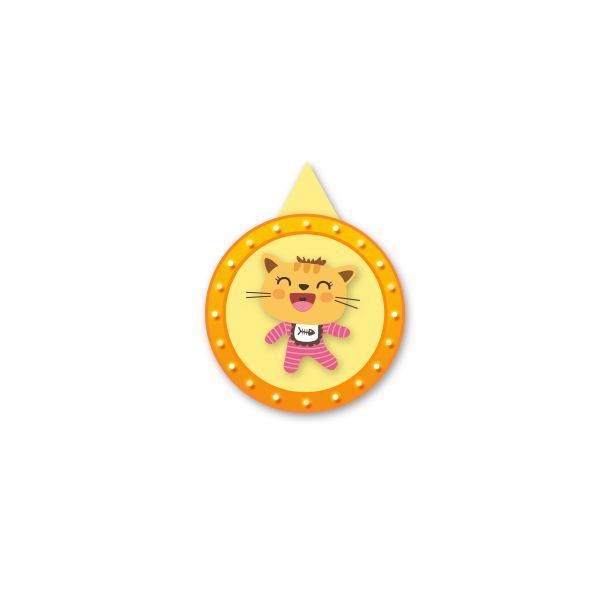
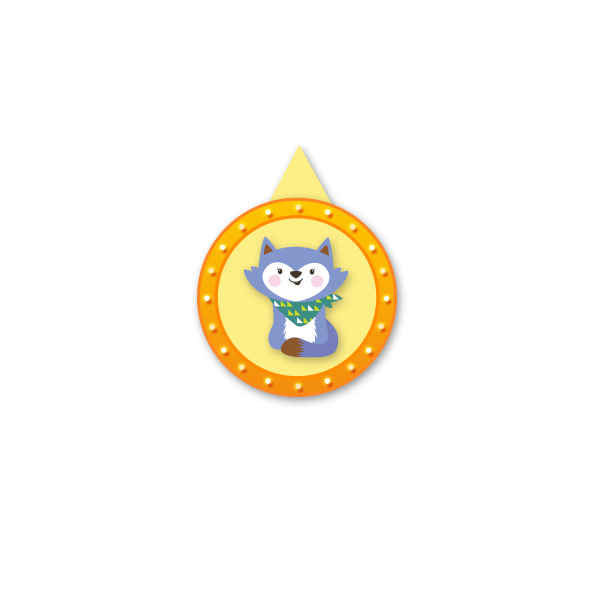
may be ok

Changed region(s): [[0.3333, 0.2424, 0.697, 0.697]]

diff --git a/static/css/animate.css b/static/css/animate.css
@@ -13,67 +13,72 @@
 }
 
 .rdash {
-  -webkit-transform: rotateZ(-3600deg);
-  -moz-transform: rotateZ(-3600deg);
-  -ms-transform: rotateZ(-3600deg);
-  -o-transform: rotateZ(-3600deg);
-  transform: rotateZ(-3600deg);
+  -webkit-transition: all 5s linear;
+  -moz-transition: all 5s linear;
+  -ms-transition: all 5s linear;
+  -o-transition: all 5s linear;
+  transition: all 5s linear;
+  -webkit-transform: rotateZ(0deg);
+  -moz-transform: rotateZ(0deg);
+  -ms-transform: rotateZ(0deg);
+  -o-transform: rotateZ(0deg);
+  transform: rotateZ(0deg);
 }
 
 .spin {
   -webkit-animation-name: spin;
-  -webkit-animation-duration: 10000ms;
+  -webkit-animation-duration: 5000ms;
   -webkit-animation-iteration-count: infinite;
-  -webkit-animation-timing-function: linear;
+  -webkit-animation-timing-function: ease;
   -moz-animation-name: spin;
-  -moz-animation-duration: 10000ms;
+  -moz-animation-duration: 5000ms;
   -moz-animation-iteration-count: infinite;
-  -moz-animation-timing-function: linear;
+  -moz-animation-timing-function: ease;
   -ms-animation-name: spin;
-  -ms-animation-duration: 10000ms;
+  -ms-animation-duration: 5000ms;
   -ms-animation-iteration-count: infinite;
-  -ms-animation-timing-function: linear;
+  -ms-animation-timing-function: ease;
 }
 
 .rspin {
   -webkit-animation-name: rspin;
-  -webkit-animation-duration: 10000ms;
+  -webkit-animation-duration: 5000ms;
   -webkit-animation-iteration-count: infinite;
-  -webkit-animation-timing-function: linear;
+  -webkit-animation-timing-function: ease;
   -moz-animation-name: rspin;
-  -moz-animation-duration: 10000ms;
+  -moz-animation-duration: 5000ms;
   -moz-animation-iteration-count: infinite;
-  -moz-animation-timing-function: linear;
+  -moz-animation-timing-function: ease;
   -ms-animation-name: rspin;
-  -ms-animation-duration: 10000ms;
+  -ms-animation-duration: 5000ms;
   -ms-animation-iteration-count: infinite;
-  -ms-animation-timing-function: linear;
+  -ms-animation-timing-function: ease;
 }
 
 
 @-moz-keyframes spin {
     from { -moz-transform: rotate(0deg); }
-    to { -moz-transform: rotate(360deg); }
+    to { -moz-transform: rotate(3600deg); }
 }
 @-webkit-keyframes spin {
     from { -webkit-transform: rotate(0deg); }
-    to { -webkit-transform: rotate(360deg); }
+    to { -webkit-transform: rotate(3600deg); }
 }
 @keyframes spin {
     from {transform:rotate(0deg);}
-    to {transform:rotate(360deg);}
+    to {transform:rotate(3600deg);}
 }
 
 
 @-moz-keyframes rspin {
     from { -moz-transform: rotate(0deg); }
-    to { -moz-transform: rotate(-360deg); }
+    to { -moz-transform: rotate(-3600deg); }
 }
 @-webkit-keyframes rspin {
     from { -webkit-transform: rotate(0deg); }
-    to { -webkit-transform: rotate(-360deg); }
+    to { -webkit-transform: rotate(-3600deg); }
 }
 @keyframes rspin {
     from {transform:rotate(0deg);}
-    to {transform:rotate(-360deg);}
+    to {transform:rotate(-3600deg);}
 }

diff --git a/app/templates/draw.html b/app/templates/draw.html
@@ -11,14 +11,14 @@
     </div>
     <div class="draw__wheel--wrap">
         <div id="wheel" class="draw__wheel">
-            <img class="dash" id="pointer" src="/static/img/draw/pointer2.png" alt="">
+            <img class="dash" id="pointer" src="/static/img/draw/pointer{{ id }}.png" alt="">
         </div>
     </div>
     <form id="draw__form" action="/draw" method="post" onsubmit="return next()">
         <input type="hidden" name="id" value="{{ id }}">
         <input
             id="draw__input"
-            maxlength="10"
+            maxlength="8"
             class="draw__input"
             placeholder="请输入你的名字"
             type="text"
@@ -36,7 +36,6 @@
             var submitBtn = document.getElementById('draw__submit')
             submitBtn.disabled = true
 
-            document.getElementById('pointer').src = '/static/img/draw/pointer3.png'
             $('#wheel').css({
                 'background': 'url("/static/img/draw/wheel3.png") no-repeat center center',
                 '-webkit-background-size': '100% auto',
@@ -54,10 +53,16 @@
                 var form = document.getElementById('draw__form')
                 var pInput = document.getElementById('personalityId')
                 pInput.value = personalityId
-                form.onsubmit = true
                 form.submit()
             }, 5000)
             return false
         }
+        window.onload = function () {
+            if ('{{ name }}') {
+                document.getElementById('draw__input').value = '{{ name }}'
+                next()
+            }
+        }
+
     </script>
 {% endblock %}

diff --git a/app/templates/result.html b/app/templates/result.html
@@ -13,7 +13,7 @@
 
 {% block content %}
     <img src="{{ url }}" alt="">
-    <form action="/draw" id="result__form" class="result__btn" method="post">
+    <form action="/draw" id="result__form" class="result__btn" method="get">
         <img onclick="submitAgain()" src="/static/img/result/btn{{ pId }}.png" alt="">
         <input type="hidden" name="id" value="{{ id }}">
         <input type="hidden" name="name" value="{{ name }}">

diff --git a/static/css/draw.css b/static/css/draw.css
@@ -2,7 +2,6 @@ body {
   background: url("/static/img/bg.png") no-repeat center center;
   -webkit-background-size: 100% 100%;
   background-size: 100% 100%;
-  background-blend-mode: screen;
 }
 
 .draw__header, .draw__header img {

diff --git a/app/main/util.py b/app/main/util.py
@@ -15,13 +15,18 @@ def add_name(fn, name, result_fn):
     img = Image.open(fn)
     img_size = img.size
 
-    font_size = int(img_size[0] * 0.055)
+    # font_size = int(img_size[0] * 0.055)
+    font_size = int(img_size[0] * 0.07)
     font_file = os.path.join(app.config['RESOURCES_DIR'], 'FZZY.TTF')
 
     begin_pos = (
-        img_size[0] * 0.29,
-        img_size[1] * 0.41
+        img_size[0] * 0.295,
+        img_size[1] * 0.4
     )
+    # begin_pos = (
+    #     img_size[0] * 0.32,
+    #     img_size[1] * 0.40
+    # )
 
     font = ImageFont.truetype(font_file, font_size)
     draw = ImageDraw.Draw(img)

diff --git a/app/main/handler.py b/app/main/handler.py
@@ -14,6 +14,9 @@ def draw():
     if request.method == 'GET':
         try:
             id = int(request.args.get('id'))
+            name = request.args.get('name')
+            if name is not None:
+                return render_template('draw.html', id=id, name=name)
             return render_template('draw.html', id=id)
         except (ValueError, TypeError) as e:
             return render_template('index.html',
